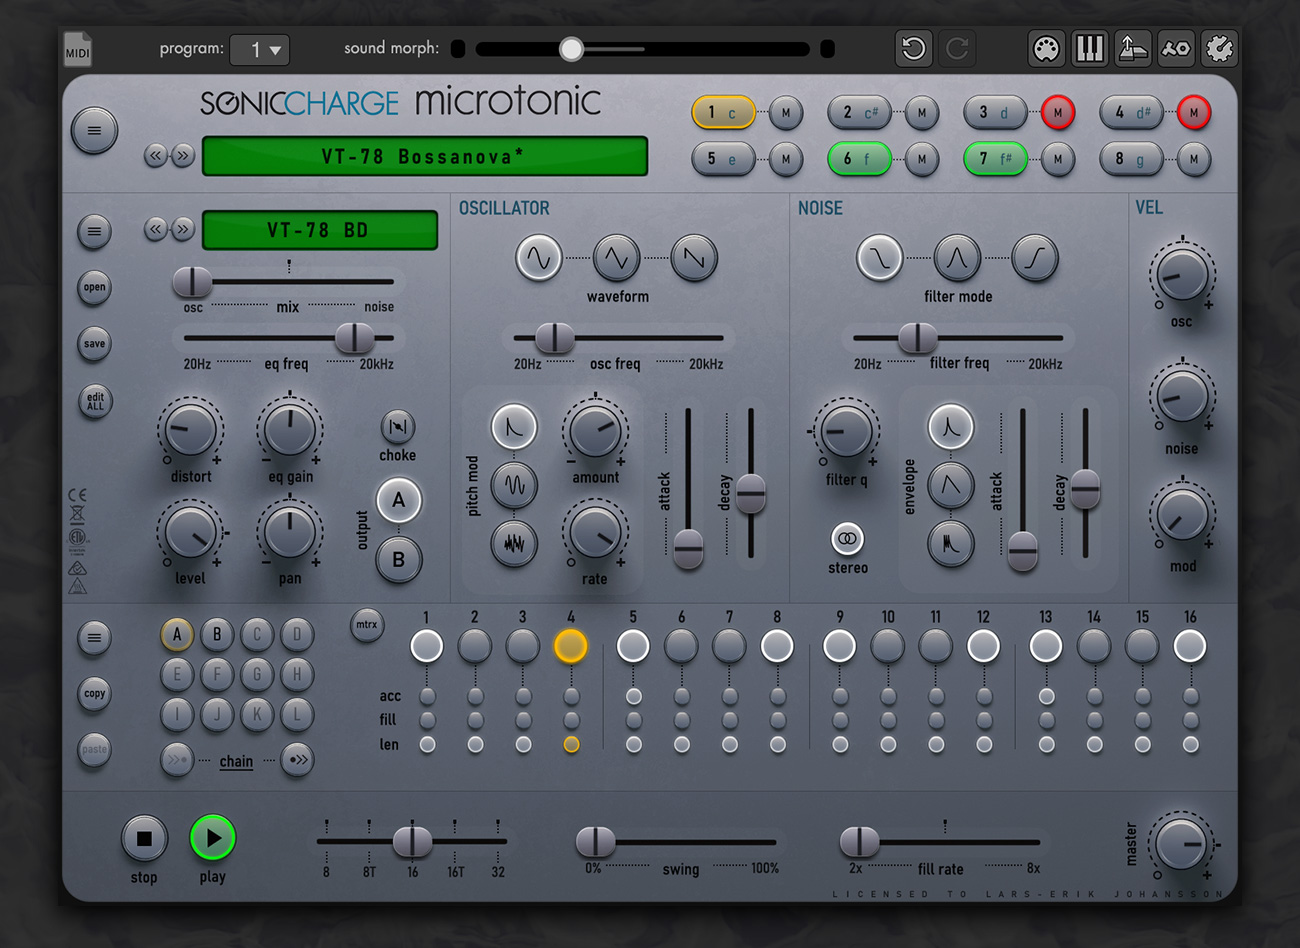
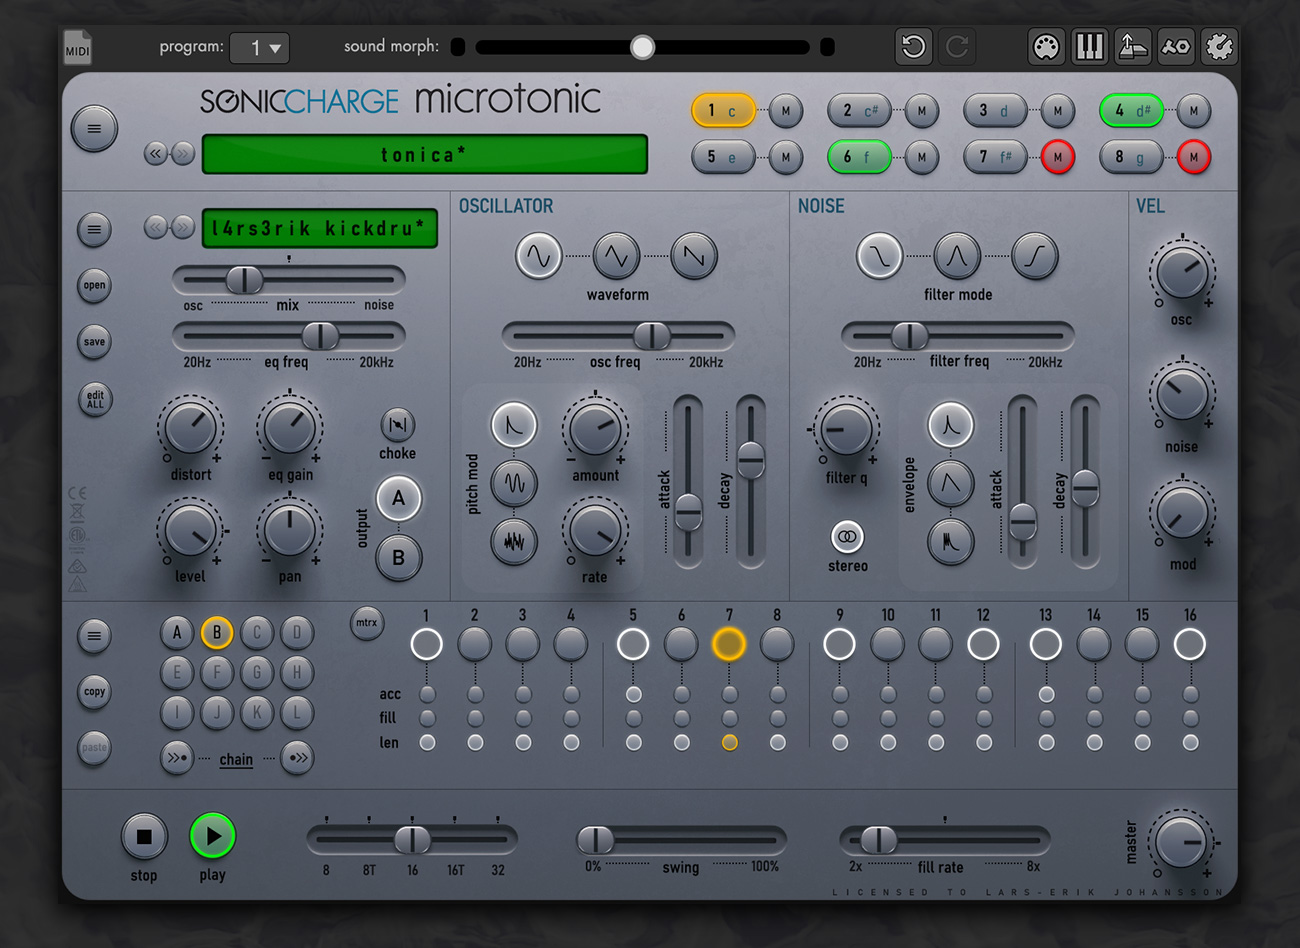
update of the tonica

diff --git a/microtonic/README.md b/microtonic/README.md
@@ -6,14 +6,8 @@ over at sonic charge: [fredli74/microtonic-skins](https://github.com/fredli74/mi
 
 Previews of the skins:
 
-## tonicA
-![preview](tonicA.jpg)
-
-## tonicB
-![preview](tonicB.jpg)
-
-## tonicR
-![preview](tonicR.jpg)
+## tonica
+![preview](tonica.jpg)
 
 ## dark0ne
 ![preview](dark0ne.jpg)
